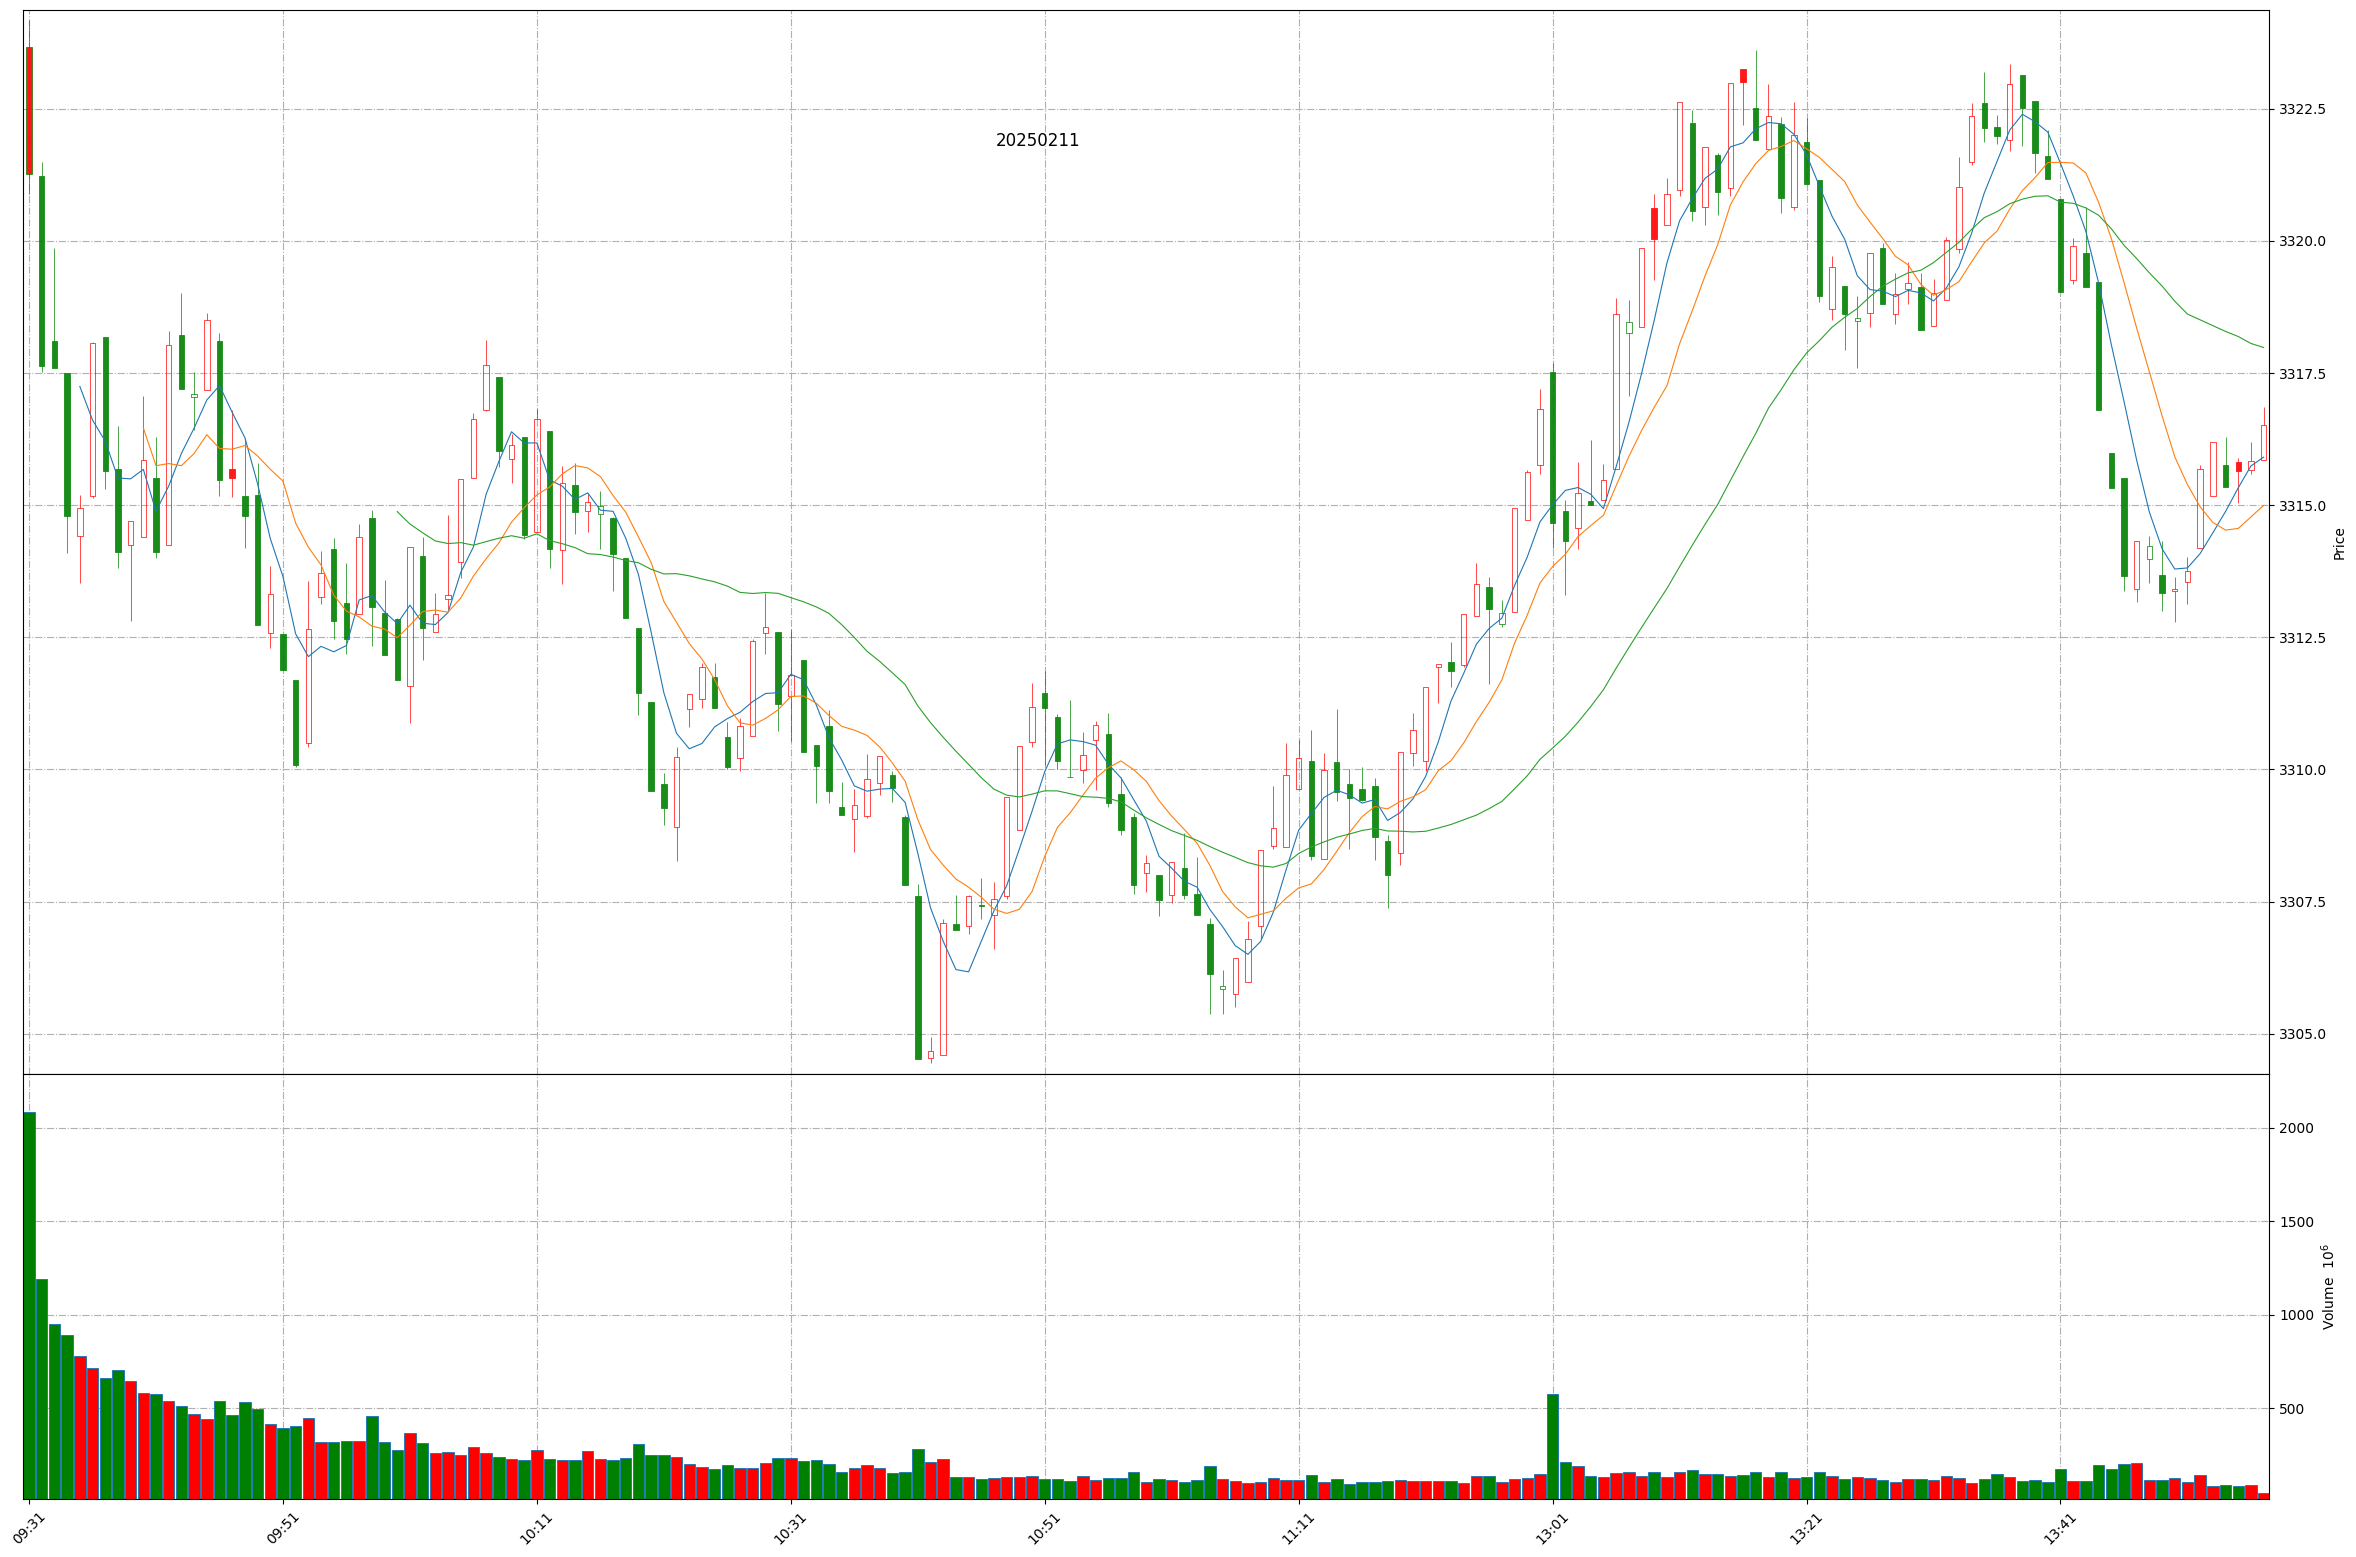
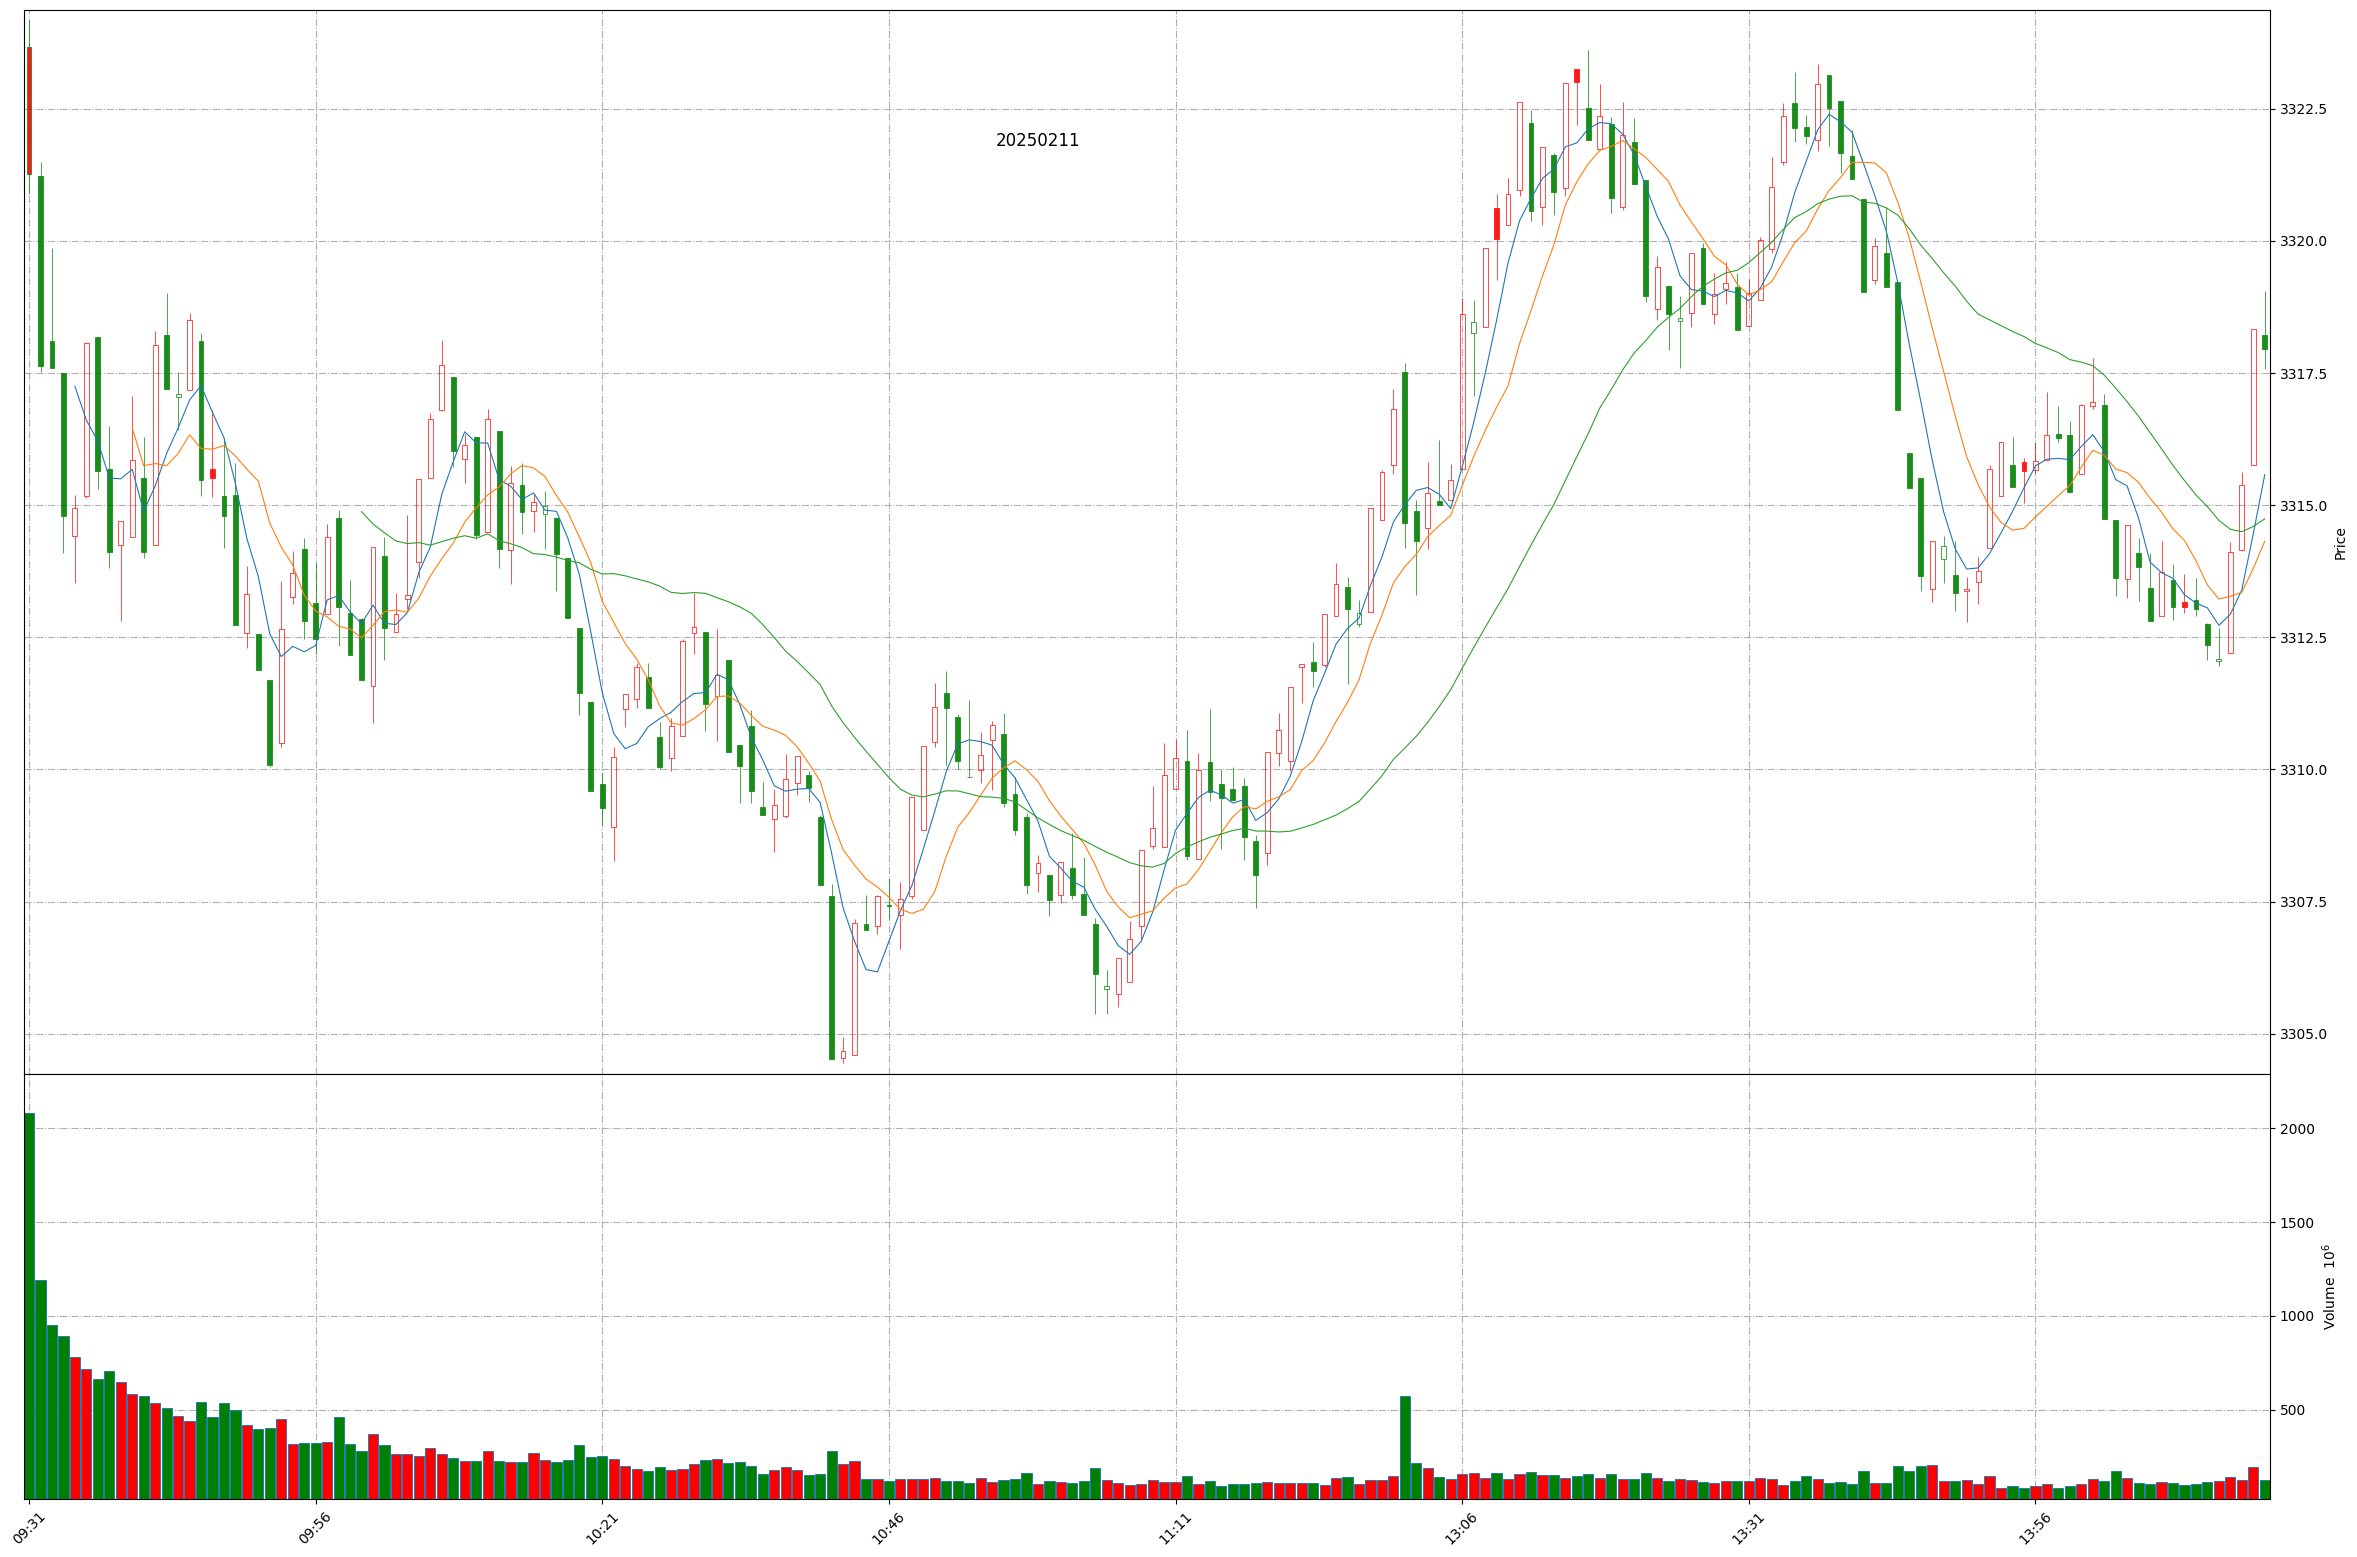
Github action update at 2025-02-11 14:16:05.

diff --git a/README.md b/README.md
@@ -1,11 +1,11 @@
 
 # Daily-A-share-market-quotes 每日 A 股指数（5min 更新）- 20250211
 
-### 上证指数 20250211 13:56
+### 上证指数 20250211 14:16
 ![](./fig/2025/2/20250211-sh000001.png)
 
-### 深证成指 20250211 13:56
+### 深证成指 20250211 14:16
 ![](./fig/2025/2/20250211-sz399001.png)
 
-### 北证50 20250211 13:56
+### 北证50 20250211 14:16
 ![](./fig/2025/2/20250211-bj899050.png)
